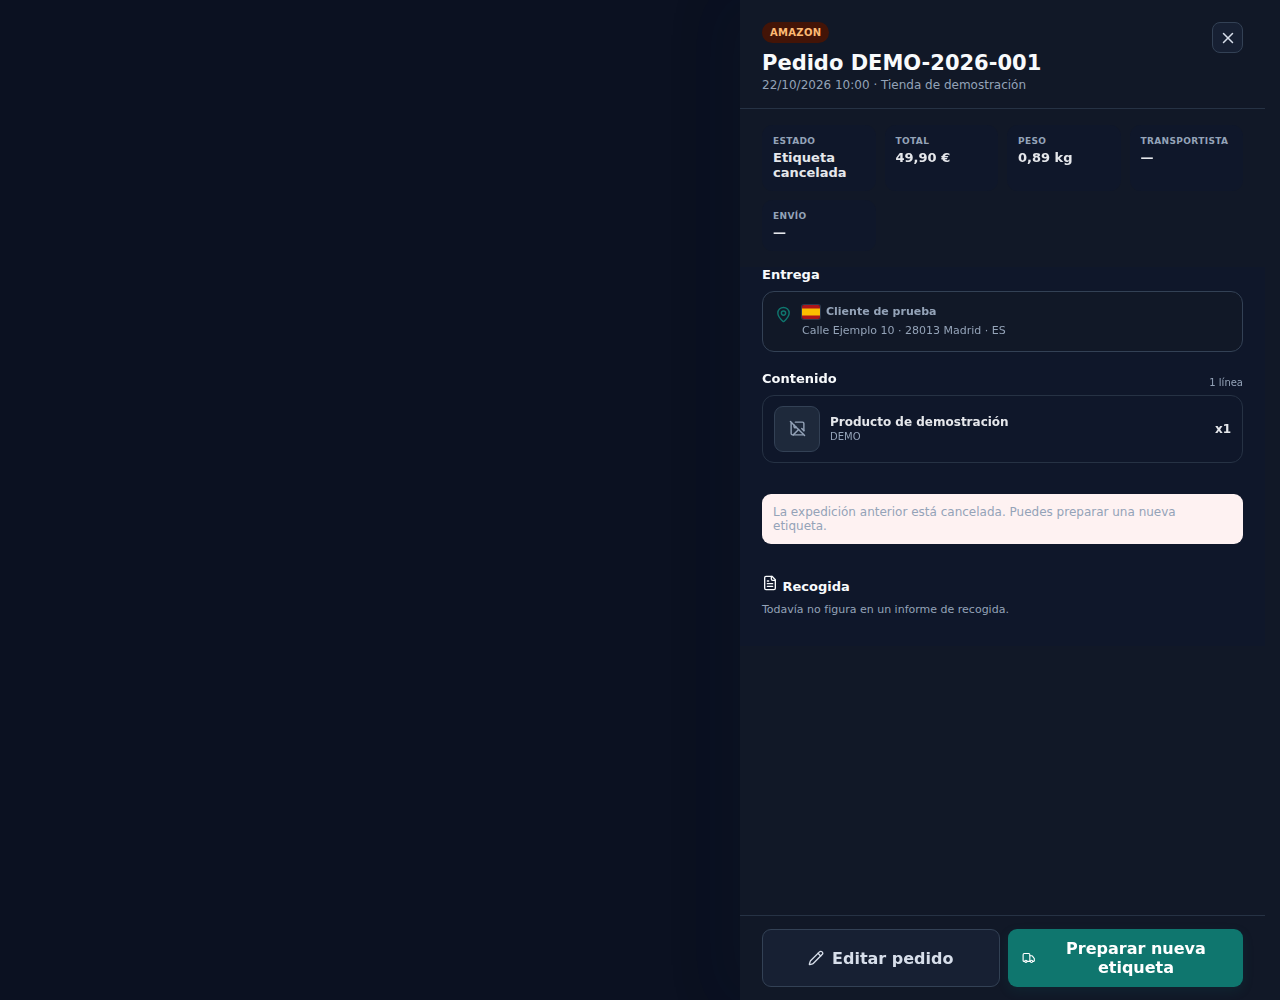
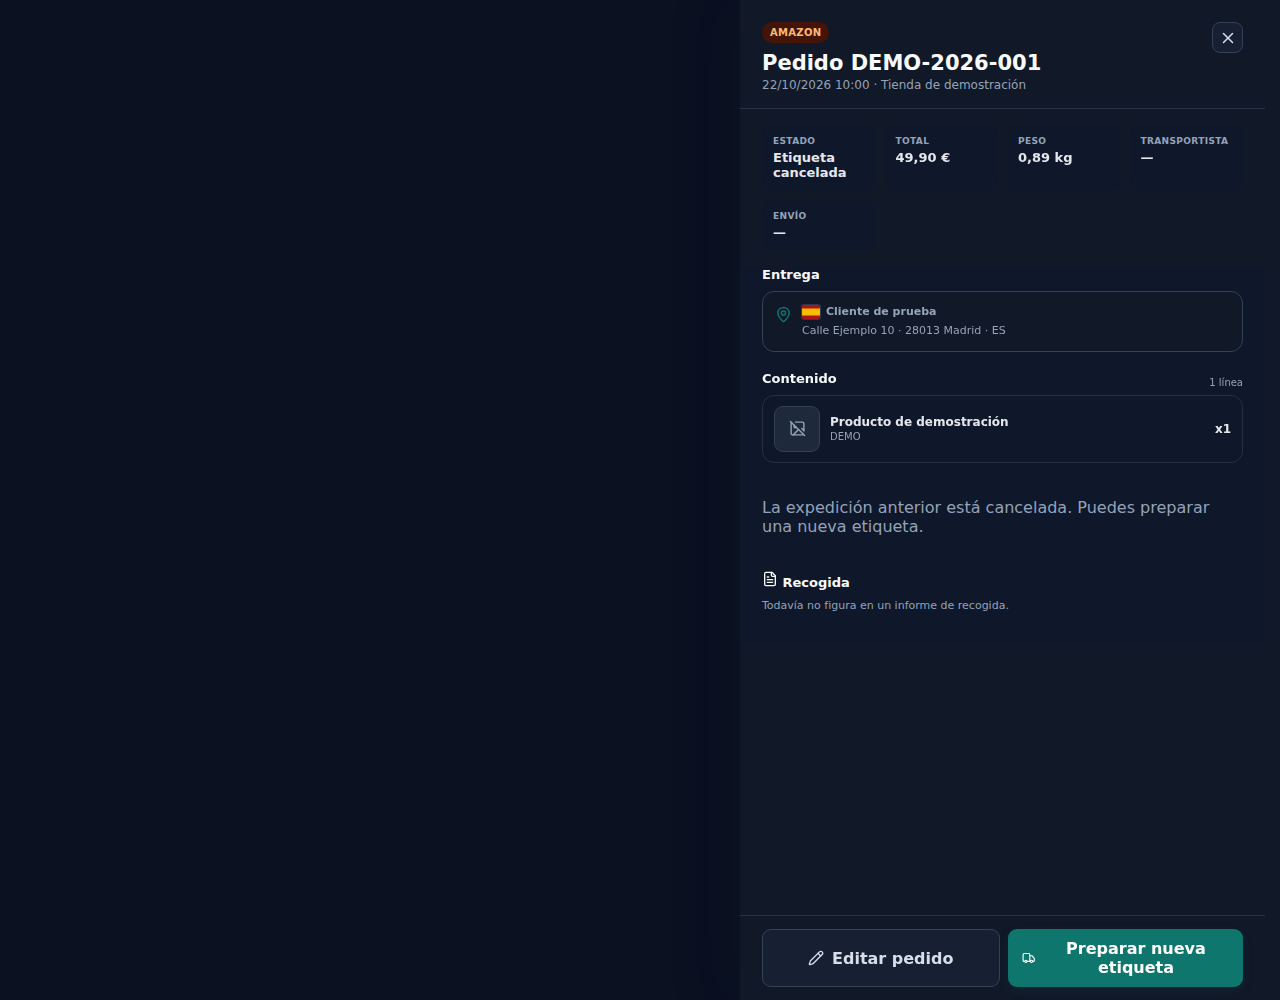
fix(ui): conservar contraste del aviso de reetiquetado en oscuro
Usar el párrafo informativo existente, regenerar las capturas y mantener todas las acciones.

Changed region(s): [[0.5938, 0.496, 0.9688, 0.62]]

diff --git a/src/pages/Orders.tsx b/src/pages/Orders.tsx
@@ -276,7 +276,7 @@ export function OrderDrawer({order,shippingPrice,validationIssues,productImages,
     {validationIssues.length>0&&<section className="ordersDrawerSection"><div className="errorBox ordersValidationBox"><AlertCircle size={17}/><div><strong>Revisar antes de generar la etiqueta</strong>{validationIssues.map((issue,index)=><span key={`${issue.field}-${index}`}>{issue.message}</span>)}</div></div></section>}
     <section className="ordersDrawerSection"><h3>Entrega</h3><div className="ordersAddress"><MapPin size={17}/><div><strong>{customerWithCountry(order,'Cliente')}</strong>{text(order.shippingAddress.company_name)&&<small>{text(order.shippingAddress.company_name)}</small>}<span>{addressLine(order.shippingAddress)}</span>{order.customerPhone&&<small>{order.customerPhone}</small>}{order.customerEmail&&<small>{order.customerEmail}</small>}</div></div></section>
     <section className="ordersDrawerSection"><div className="ordersSectionHead"><h3>Contenido</h3><span>{order.items.length} línea{order.items.length===1?'':'s'}</span></div>{order.items.length?<div className="ordersItems">{order.items.map((item,index)=>{const image=itemImageUrl(item,productImages);return <div key={`${itemLabel(item)}-${index}`}><div className="ordersItemMain">{image?<img className="ordersDrawerProductThumb" src={image} alt="" loading="lazy" referrerPolicy="no-referrer"/>:order.sourceChannel==='amazon'?<span className="ordersDrawerProductThumb ordersProductThumbPlaceholder"><ImageOff size={17}/></span>:null}<div className="ordersItemText"><strong>{itemLabel(item)}</strong><span>{text(item.sku)||text(item.product_id)||''}</span></div></div><b>x{itemQty(item)}</b></div>})}</div>:<div className="masterEmptyMini">Sin líneas de producto.</div>}</section>
-    {canRelabelOrder(order)&&<section className="ordersDrawerSection"><p className="errorBox">La expedición anterior está cancelada. Puedes preparar una nueva etiqueta.</p></section>}
+    {canRelabelOrder(order)&&<section className="ordersDrawerSection"><p>La expedición anterior está cancelada. Puedes preparar una nueva etiqueta.</p></section>}
     {shippingPrice&&<section className="ordersDrawerSection"><h3>Coste de envío</h3><div className="ordersShipmentInfo"><div><span>Total</span><strong>{money(shippingPrice.totalAmount,shippingPrice.currency)}</strong></div><div><span>Base</span><strong>{shippingPrice.netAmount==null?'—':money(shippingPrice.netAmount,shippingPrice.currency)}</strong></div><div><span>IVA</span><strong>{shippingPrice.taxAmount==null?'—':money(shippingPrice.taxAmount,shippingPrice.currency)}</strong></div><div><span>Origen</span><strong>{shippingPrice.source==='recorded'?'Coste seleccionado':shippingPrice.source==='tariff_estimate'?'Tarifa estimada':shippingPrice.note||'Cotización logística'}</strong></div>{shippingPrice.note&&<div><span>Nota</span><strong>{shippingPrice.note}</strong></div>}</div></section>}
     {order.shippingCostSource==='external_manual'&&<section className="ordersDrawerSection"><h3>Envío externo</h3><p>Registrado en ZENVIA. No hay una etiqueta descargable en la aplicación.</p></section>}
     {!order.piiPurgedAt&&!order.trackingNumber&&!labelled&&!order.fulfilledAt&&!isCancelledOrder(order)&&onRegisterExternal&&<section className="ordersDrawerSection"><button className="secondary" disabled={busy} onClick={onRegisterExternal}><Truck size={16}/> Registrar envío externo</button></section>}

diff --git a/docs/deploy/20261023-relabel-cancelled-shipment.md b/docs/deploy/20261023-relabel-cancelled-shipment.md
@@ -25,3 +25,5 @@ Un hallazgo importante: al cambiar MRW/Envia → Sendcloud se conservaba la cuen
 Primera suite completa: 649/649 Vitest, 116 archivos; build correcto. Tras la corrección de revisión se repetirá la suite. Deno 2.9.6 valida las cuatro funciones.
 
 Incidencia local de verificación: cuatro pruebas Node fallaron porque el worktree parcial no incluía dos documentos y dos iconos ya presentes en main. Se restauran copias byte idénticas (hashes Git contrastados con el árbol remoto), sin cambios de producto ni exclusiones. Se repite Node completo.
+
+Validación posterior al hallazgo: 25/25 focales, Node completo1284/1284, Deno y build correctos. Inspección de capturas: el texto informativo de cancelación usa el párrafo normal del sistema para mantener contraste en oscuro; no se presenta como error. Se regeneran las24capturas y se conserva el inventario.
